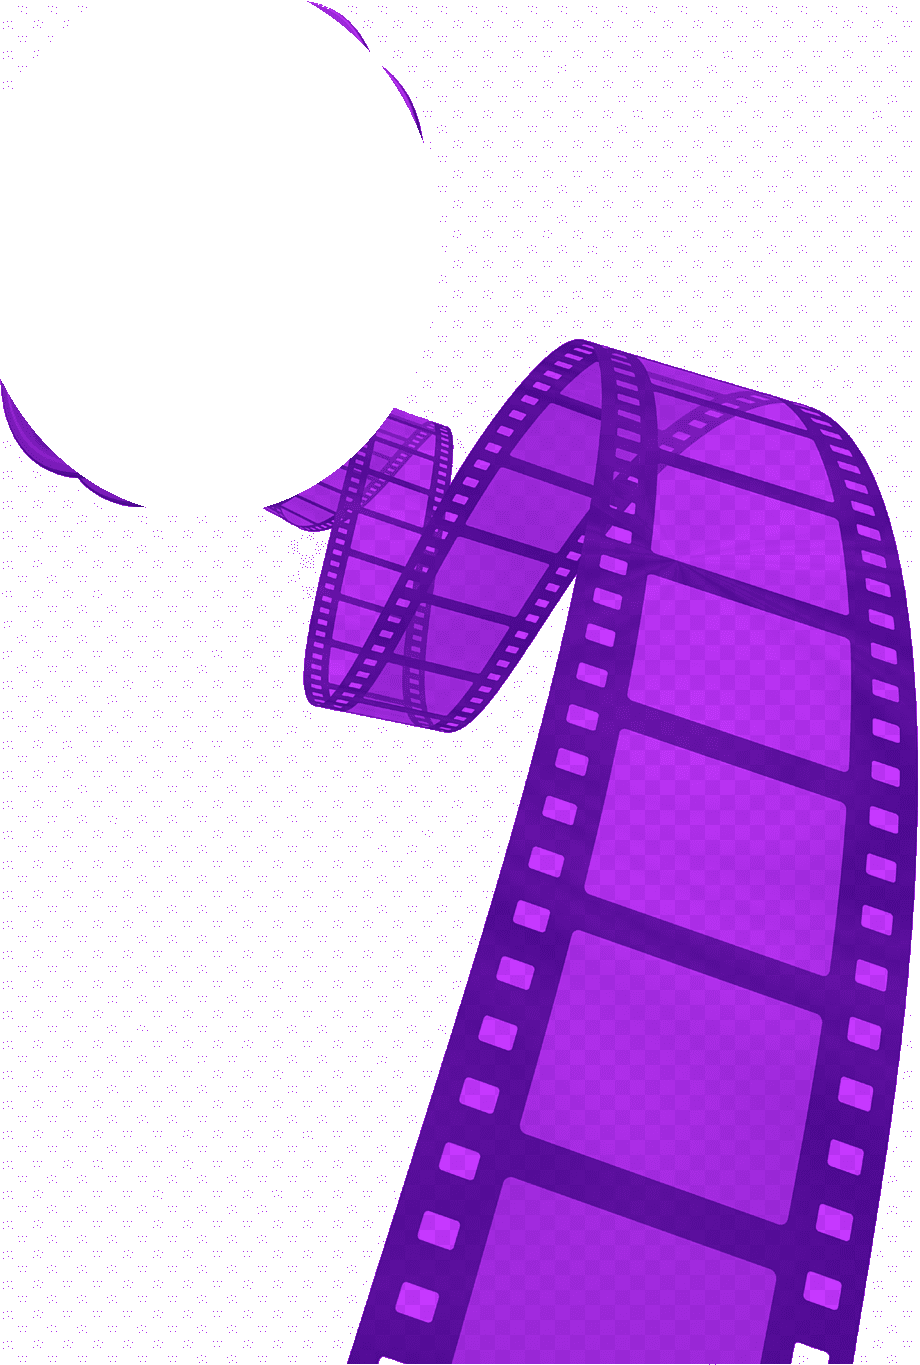
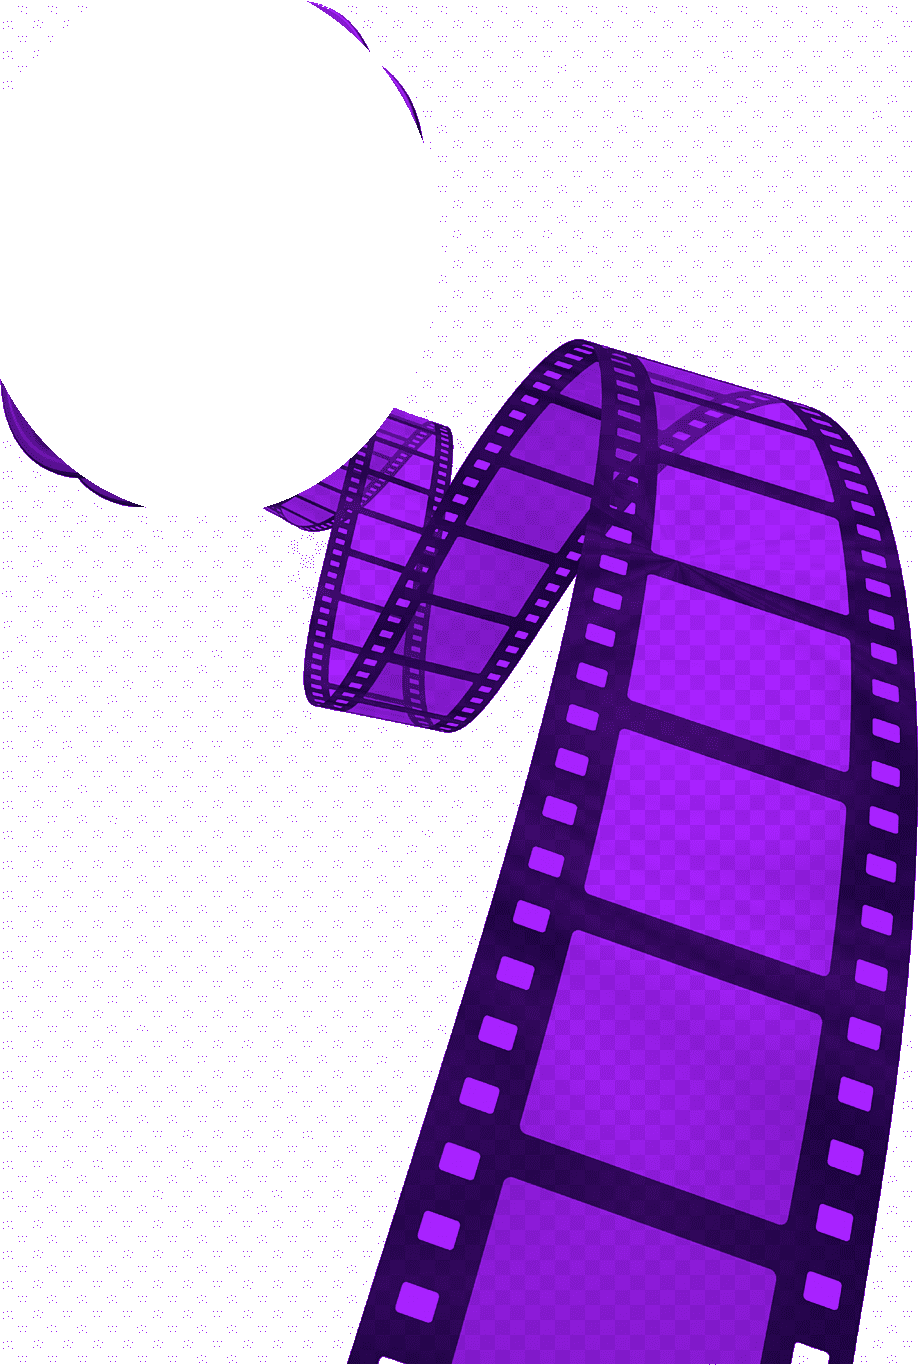
Calm down the onboarding reel animation and boost its color
Keeps the strip pivoting from the reel instead of drifting away,
softens the reel's spin and the 3D wobble that could stretch it into
a thin line, fixes the unroll mask cutting off the strip's tip,
bumps the artwork size by 20px, and pushes the violet duotone to a
higher-contrast, more saturated look.

Changed region(s): [[0.3043, 0.2462, 1.0, 1.0], [0.0, 0.2769, 0.1217, 0.3692], [0.4261, 0.0615, 0.4565, 0.0923]]

diff --git a/styles.css b/styles.css
@@ -118,15 +118,15 @@ html, body {
 }
 
 @keyframes reelWander {
-  0%   { transform: translateZ(0px) translate(0px, 0px) rotateX(0deg) rotateY(-20deg) rotateZ(0deg) scaleX(1); }
-  12%  { transform: translateZ(70px) translate(26px, -20px) rotateX(16deg) rotateY(58deg) rotateZ(8deg) scaleX(0.86); }
-  25%  { transform: translateZ(-50px) translate(-18px, 14px) rotateX(-18deg) rotateY(-66deg) rotateZ(-11deg) scaleX(1.12); }
-  37%  { transform: translateZ(85px) translate(22px, 22px) rotateX(13deg) rotateY(52deg) rotateZ(10deg) scaleX(0.88); }
-  50%  { transform: translateZ(-60px) translate(-24px, -12px) rotateX(-16deg) rotateY(-60deg) rotateZ(-9deg) scaleX(1.1); }
-  62%  { transform: translateZ(75px) translate(16px, -18px) rotateX(18deg) rotateY(68deg) rotateZ(11deg) scaleX(0.84); }
-  75%  { transform: translateZ(-40px) translate(-14px, 9px) rotateX(-13deg) rotateY(-44deg) rotateZ(-8deg) scaleX(1.08); }
-  87%  { transform: translateZ(55px) translate(20px, 16px) rotateX(14deg) rotateY(36deg) rotateZ(6deg) scaleX(0.93); }
-  100% { transform: translateZ(0px) translate(0px, 0px) rotateX(0deg) rotateY(-20deg) rotateZ(0deg) scaleX(1); }
+  0%   { transform: rotateX(0deg) rotateY(-6deg) rotateZ(0deg); }
+  12%  { transform: rotateX(4deg) rotateY(12deg) rotateZ(2deg); }
+  25%  { transform: rotateX(-5deg) rotateY(-14deg) rotateZ(-3deg); }
+  37%  { transform: rotateX(3deg) rotateY(11deg) rotateZ(3deg); }
+  50%  { transform: rotateX(-4deg) rotateY(-13deg) rotateZ(-2deg); }
+  62%  { transform: rotateX(5deg) rotateY(14deg) rotateZ(3deg); }
+  75%  { transform: rotateX(-3deg) rotateY(-9deg) rotateZ(-2deg); }
+  87%  { transform: rotateX(4deg) rotateY(7deg) rotateZ(1deg); }
+  100% { transform: rotateX(0deg) rotateY(-6deg) rotateZ(0deg); }
 }
 
 .onboarding-reel-float {
@@ -174,38 +174,38 @@ html, body {
 @property --reel-r {
   syntax: '<length>';
   inherits: false;
-  initial-value: 64px;
+  initial-value: 65px;
 }
 
 @keyframes reelRoll {
-  0%   { --reel-r: 60px; }
-  10%  { --reel-r: 60px; }
-  45%  { --reel-r: 420px; }
-  65%  { --reel-r: 420px; }
-  90%  { --reel-r: 60px; }
-  100% { --reel-r: 60px; }
+  0%   { --reel-r: 65px; }
+  10%  { --reel-r: 65px; }
+  45%  { --reel-r: 456px; }
+  65%  { --reel-r: 456px; }
+  90%  { --reel-r: 65px; }
+  100% { --reel-r: 65px; }
 }
 
 @keyframes reelSpin {
   0%   { transform: rotateZ(0deg); }
   10%  { transform: rotateZ(0deg); }
-  45%  { transform: rotateZ(180deg); }
-  65%  { transform: rotateZ(180deg); }
-  90%  { transform: rotateZ(360deg); }
-  100% { transform: rotateZ(360deg); }
+  45%  { transform: rotateZ(35deg); }
+  65%  { transform: rotateZ(35deg); }
+  90%  { transform: rotateZ(0deg); }
+  100% { transform: rotateZ(0deg); }
 }
 
 .onboarding-reel-spin {
-  transform-origin: 47px 57px;
+  transform-origin: 51px 62px;
   animation: reelSpin 7s linear infinite;
 }
 
 .onboarding-reel-roll {
   position: relative;
   z-index: 1;
-  --reel-r: 60px;
-  -webkit-mask-image: radial-gradient(circle var(--reel-r) at 47px 57px, black 0%, black 85%, transparent 100%);
-  mask-image: radial-gradient(circle var(--reel-r) at 47px 57px, black 0%, black 85%, transparent 100%);
+  --reel-r: 65px;
+  -webkit-mask-image: radial-gradient(circle var(--reel-r) at 51px 62px, black 0%, black 85%, transparent 100%);
+  mask-image: radial-gradient(circle var(--reel-r) at 51px 62px, black 0%, black 85%, transparent 100%);
   transition: --reel-r 550ms cubic-bezier(0.22,1,0.36,1);
 }
 
@@ -214,7 +214,7 @@ html, body {
 }
 
 .onboarding-reel-roll.is-active {
-  --reel-r: 420px;
+  --reel-r: 456px;
 }
 
 .onboarding-reel-float:hover,

diff --git a/components/ONBOARDINGFRAMEO.jsx b/components/ONBOARDINGFRAMEO.jsx
@@ -86,15 +86,15 @@ export function ONBOARDINGFRAMEO(_p = {}) {
           display: "flex",
           alignItems: "center",
           justifyContent: "center",
-          perspective: "340px",
+          perspective: "520px",
           touchAction: "none",
         }}>
         <div className="onboarding-reel-shadow" />
         <div style={{
           position: "relative",
-          width: 236,
-          height: 350,
-          transform: `translateZ(${active ? 80 : 0}px) rotateX(${tilt.rx}deg) rotateY(${tilt.ry}deg) scale(${active ? 1.12 : 1})`,
+          width: 256,
+          height: 380,
+          transform: `translateZ(${active ? 55 : 0}px) rotateX(${tilt.rx}deg) rotateY(${tilt.ry}deg) scale(${active ? 1.1 : 1})`,
           transition: active ? "transform 90ms linear" : "transform 550ms cubic-bezier(0.22,1,0.36,1)",
           transformStyle: "preserve-3d",
         }}>
@@ -105,7 +105,7 @@ export function ONBOARDINGFRAMEO(_p = {}) {
           <div className={`onboarding-reel-float${active ? ' is-active' : ''}`} style={{
             position: "absolute",
             inset: 0,
-            transformOrigin: "64px 102px",
+            transformOrigin: "69px 111px",
           }}>
             <div className={`fig-asset-strip-only onboarding-reel-roll${active ? ' is-active' : ''}`} style={{
               position: "absolute",
